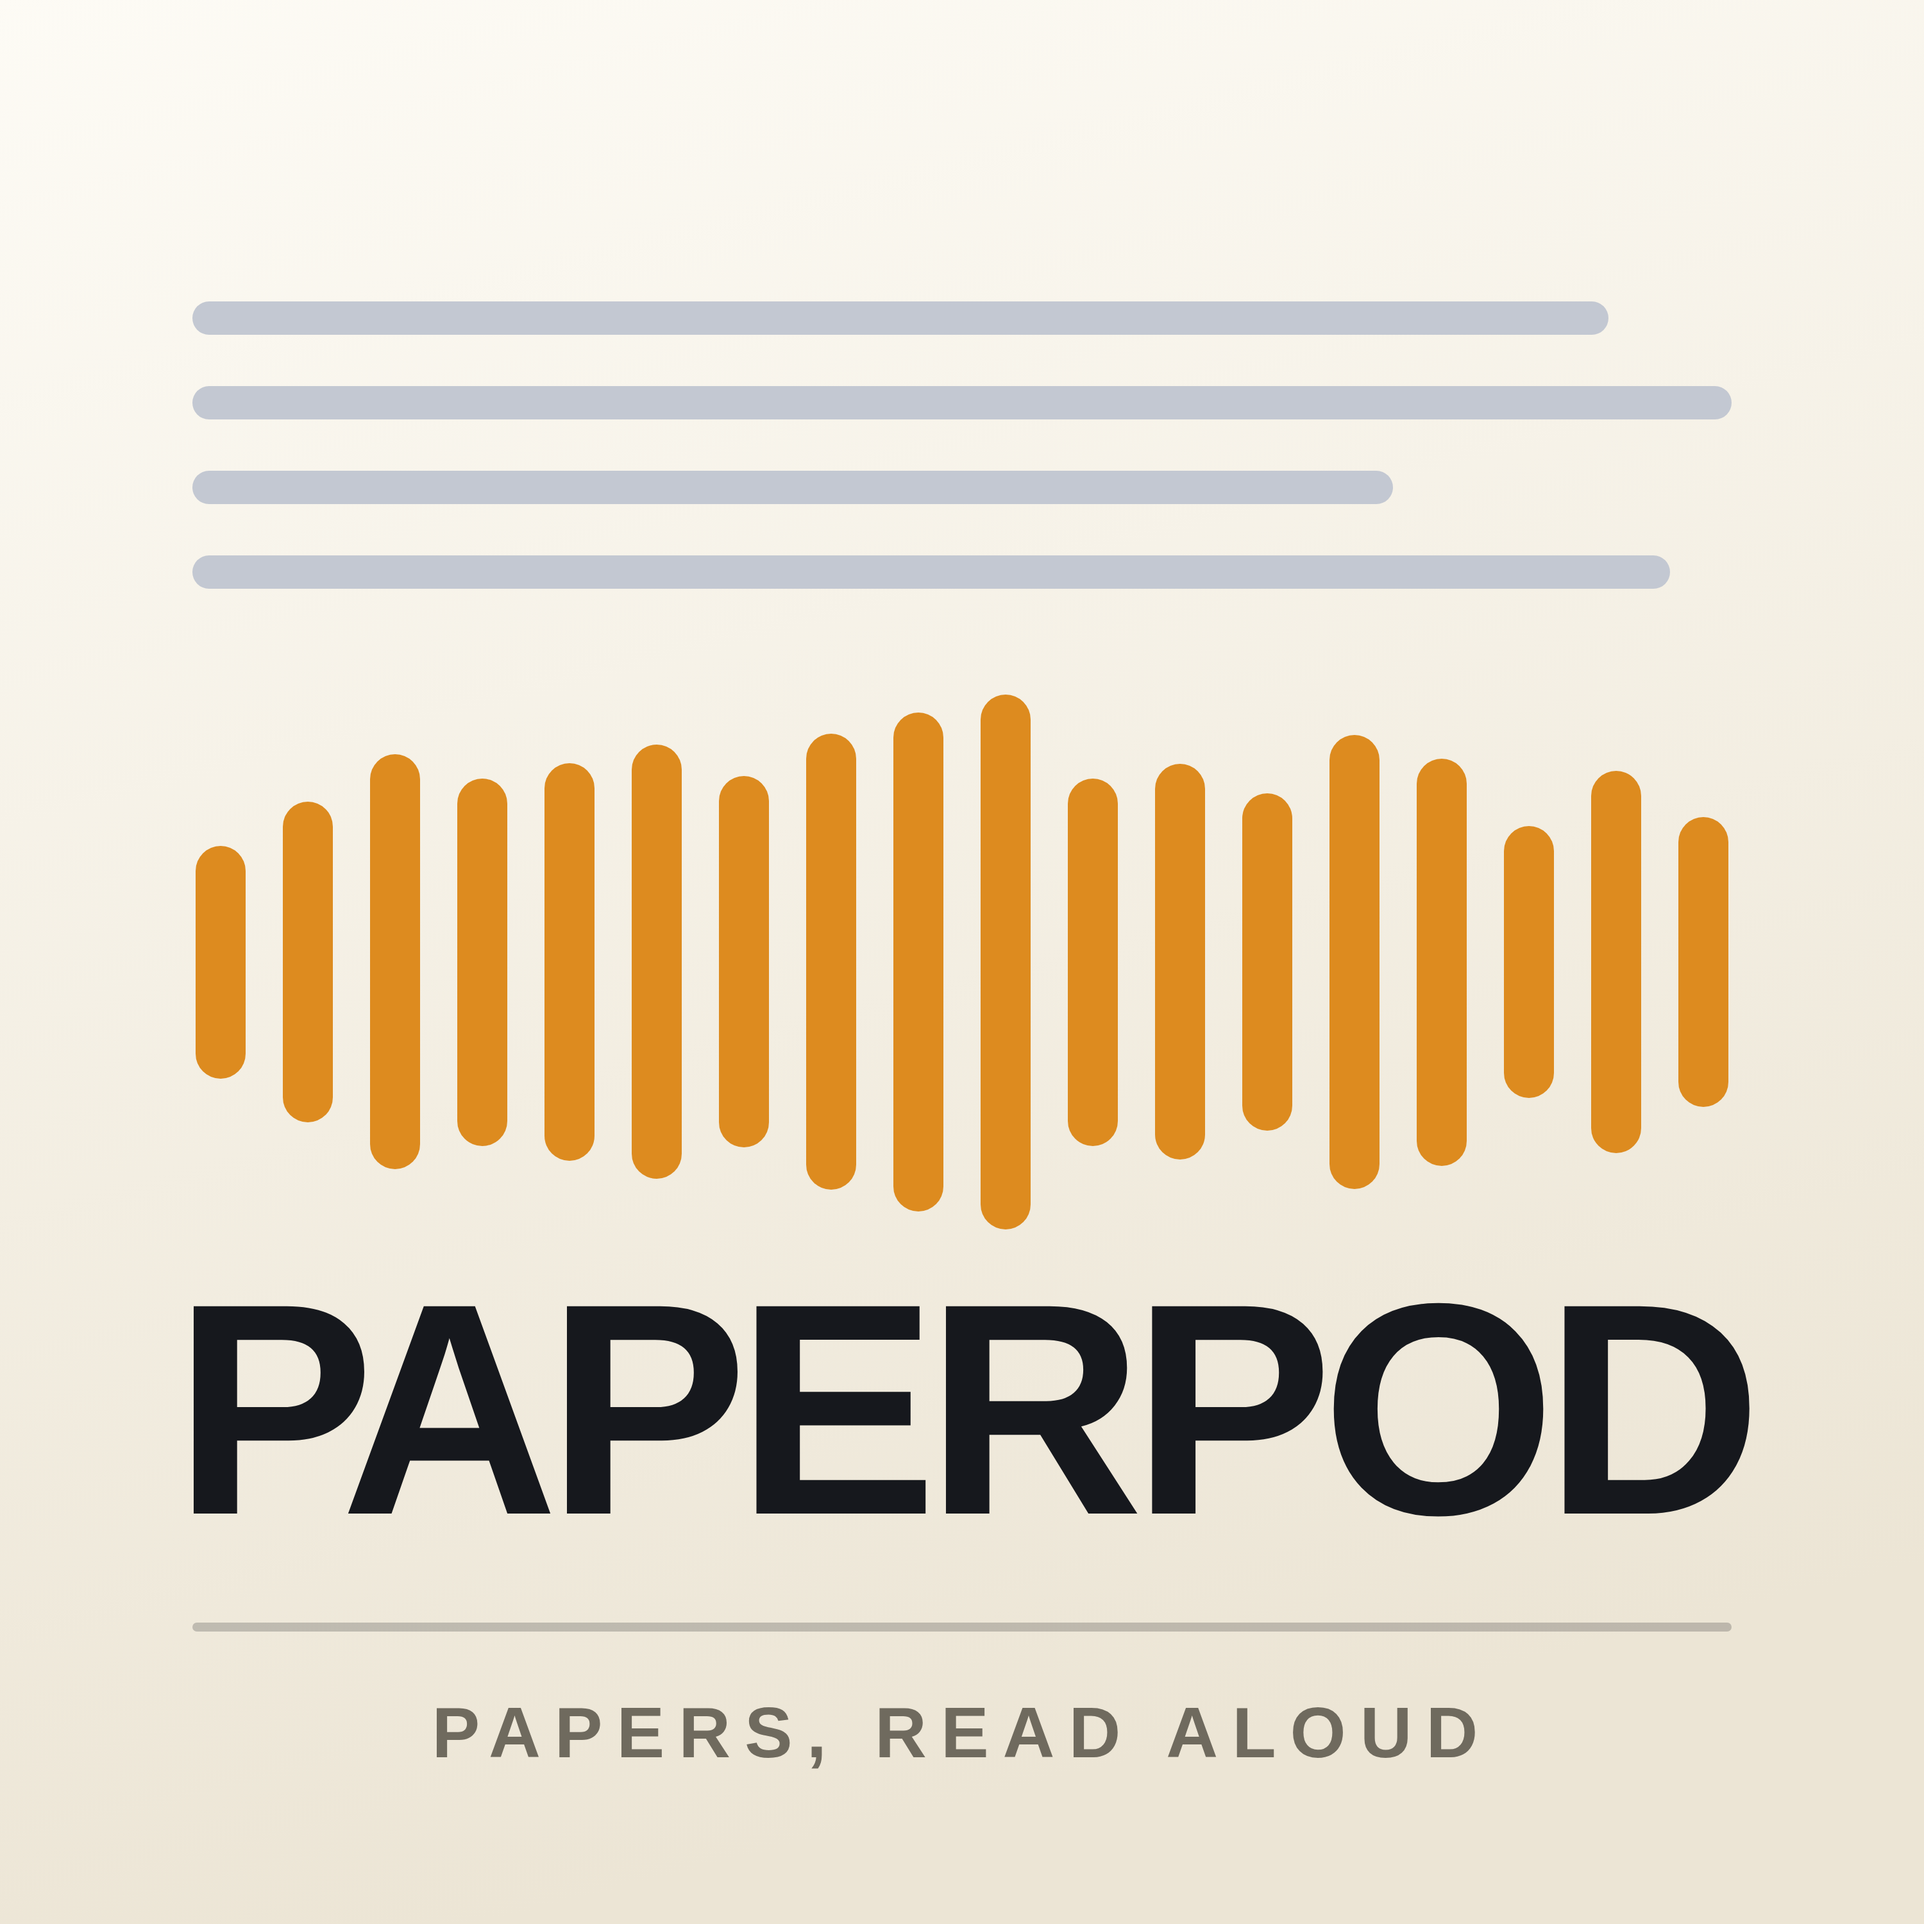
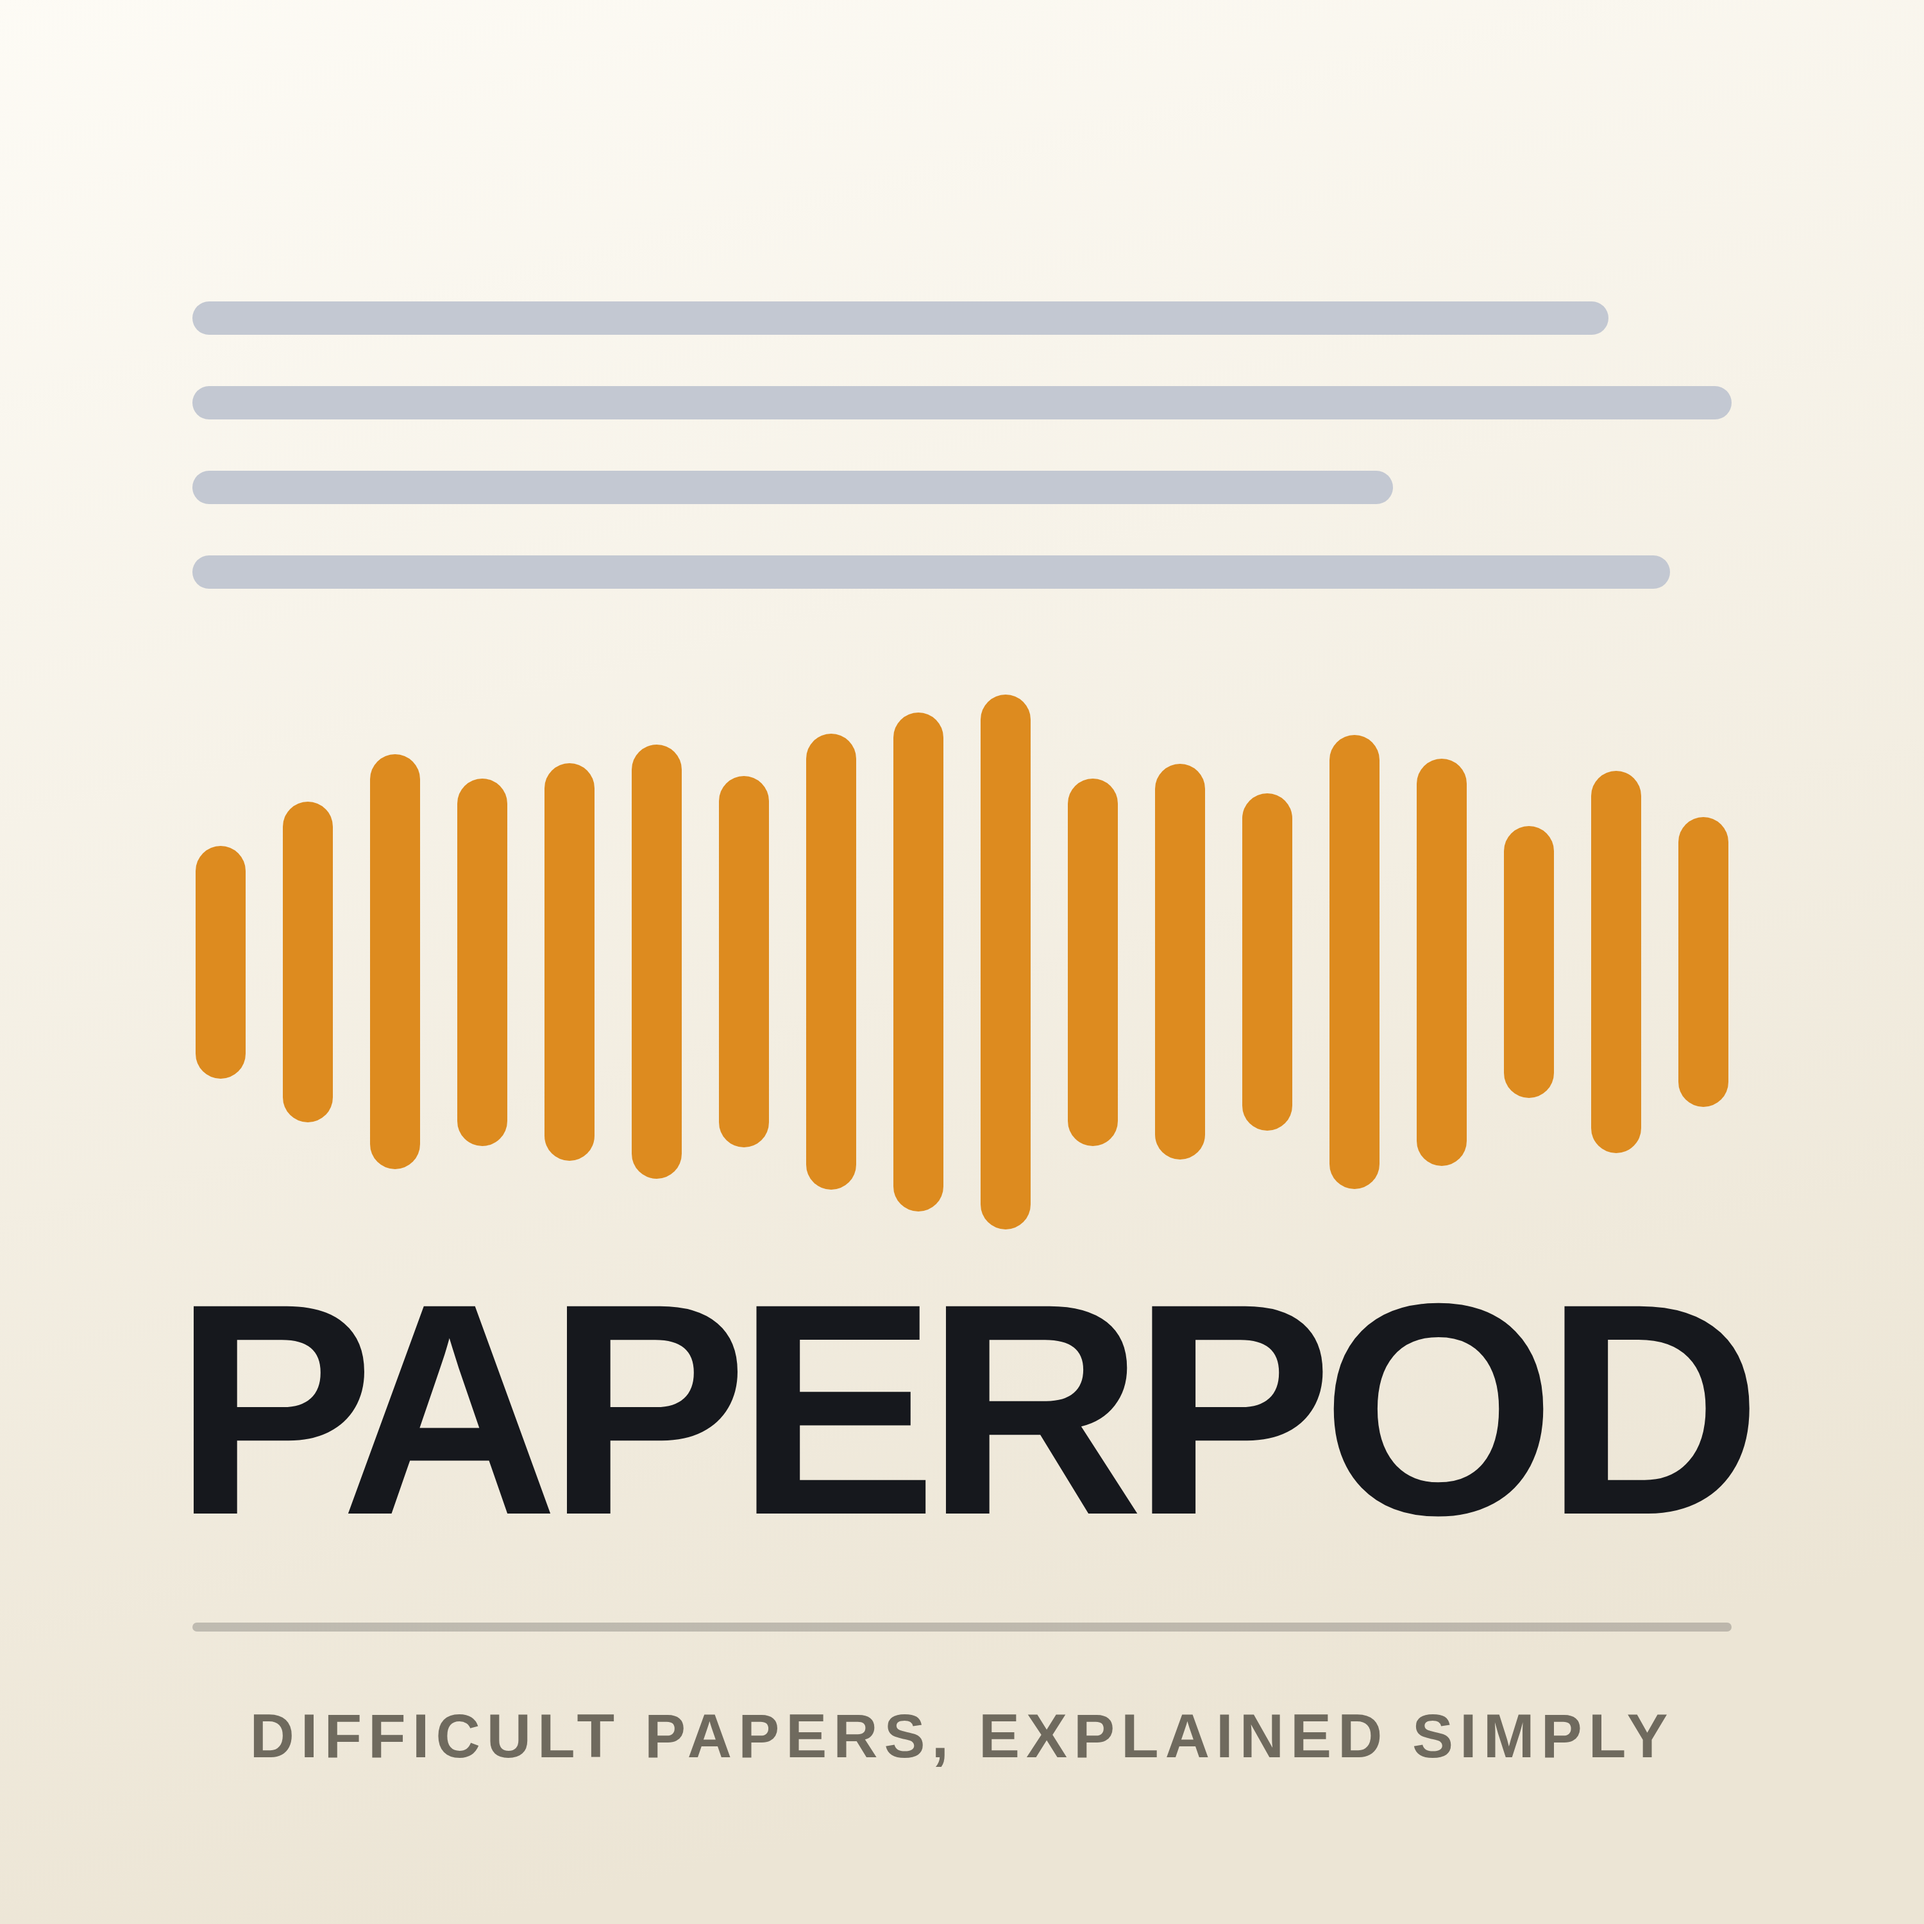
Change the cover tagline to describe what the show actually is
"PAPERS, READ ALOUD" said the episodes are readings of the papers. They
are discussions of them, and reading the originals aloud is not something
this project has permission to do -- the script prompt already caps
verbatim quotation at fifteen consecutive words for that reason. A
strapline claiming otherwise is the one place the project asserted
something it must not.

Now "DIFFICULT PAPERS, EXPLAINED SIMPLY".

Set at 96/10 rather than the old 112/22: measured in the browser, the
longer line at the original size renders 2943px against a 2400px safe
area, so it would have run off the tile.

Checked the rest of the project for the same framing. The only other
"read aloud" is the TTS instruction telling the model to read the script,
which is correct.

Claude-Session: https://claude.ai/code/session_011yKBrSJ8bpkbvmxzwufP1U

Changed region(s): [[0.124, 0.868, 0.868, 0.93]]

diff --git a/README.md b/README.md
@@ -119,6 +119,8 @@ Two things that are easy to get wrong and produce an unhelpful rejection:
 - **Artwork must be square, 1400×1400 to 3000×3000.** This is the most common rejection. `static/cover.png` ships at 3000×3000 RGB, and a test asserts it stays inside the bounds.
 
   The source is `static/cover.svg` — edit that and re-render rather than editing the PNG, so the type stays sharp at 3000px. It is drawn to survive being shrunk: podcast apps show artwork at ~55px in the now-playing bar, so the wordmark is set large and the waveform uses few fat bars rather than many thin ones, which merge into a smear at that size.
+
+  The tagline reads *"Difficult papers, explained simply"*. Episodes are **discussions of** papers, not readings of them — the script prompt caps verbatim quotation at fifteen consecutive words for exactly that reason. Wording that implies otherwise is a claim the project cannot make.
 - **`itunes:category` must be spelled exactly as in Apple's list.** The readiness check holds the list and rejects anything else.
 
 The enclosure URL answers `HEAD` as well as `GET`. Both directories probe it before accepting a feed, and FastAPI's `@app.get` alone returns 405 — which reads to them as a broken media URL rather than a missing method.
